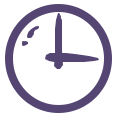
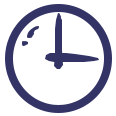
Graphic Update + Background Image

Changed region(s): [[0.0259, 0.0259, 0.9828, 0.9828], [0.2328, 0.2069, 0.3362, 0.3362], [0.181, 0.3362, 0.2586, 0.4138]]

diff --git a/index.html b/index.html
@@ -24,19 +24,17 @@
         }
 
         /* TOP MENU */
-
         .menuBar {
             display: flex;
-            background-color: rgb(205, 252, 236);
             border-radius: 10px;
             border-bottom-left-radius: 0px;
             border-bottom-right-radius: 0px;
         }
 
         .menuBar .img-menu {
-            /* width: 100px; */
+            position: relative;
             width: 50px;
-            opacity: 0.04;
+            opacity: 0.08;
         }
         .menuBar .img-menu.selected{
             opacity: 1;
@@ -50,14 +48,12 @@
             font-size: 60px;
             min-width: 136px;
             color: #333366;
-            /* color: #343486; */
             display: flex;
             justify-content: end;
-            /* background-color: red; */
         }
 
         .walkCounter.shadow {
-            opacity: 0.04;
+            opacity: 0.08;
         }
 
         /* SCREENS */
@@ -65,34 +61,41 @@
         .createScreen, .screen{
             display: flex;
             flex-wrap: wrap;
-            background-color: rgb(205, 252, 236);
             height: 300px;
             min-height: 300px;
-            /* width: 350px; */
             width: 360px;
             min-width: 360px;
         }
         
         .createScreen {
+            background-color: rgb(205, 252, 236);
             margin-right: 20px;
         }
-
+        
         .screen {
+            position: relative;
             padding: 25px;
             padding-top: 5px;
             border-radius: 10px;
             border-top-left-radius: 0px;
             border-top-right-radius: 0px;
         }
+
+        .background {
+            position: absolute;
+            top: 25px;
+            border-radius: 10px;
+        }
         
         .screenContainer {
             padding: 25px;
             padding-bottom: 45px;
-            background-color: #2c3753;
+            background-color: #1d2632;
             border-radius: 20px;
             width: 410px;
             min-width: 410px;
             position: relative;
+            overflow: hidden;
         }
 
 
@@ -106,20 +109,19 @@
         }
 
         /* PIXELS */
-
         .pixel {
             width: 8px;
             height: 8px;
-            /* margin: 1px; */
             margin: 0.5px;
             padding: 0.5px;
+        }
+        
+        .createScreen .pixel{
             background-color: rgb(162, 233, 209);
         }
 
         .pixel.clicked {
-            /* background-color: #343486; */
             background-color: #333366;
-            /* background-color: #2c215b; */
         }
 
         .pixel:not(.clicked){
@@ -129,7 +131,6 @@
 
         /* BUTTONS */
         .buttonsContainer {
-            /* background-color: red; */
             margin-top: 20px;
             width: 450px;
             height: 200px;
@@ -144,7 +145,7 @@
             position: absolute;
             background-color: #44547b;
             border: solid 1px black;
-            background-image: url("img/buttonShape.png");
+            background-image: url("img/buttonShapeDark.png");
             border-radius: 100%;
             height: 60px;
             width: 60px;
@@ -174,8 +175,8 @@
             right: 56px;
             width: 30px;
             height: 30px;
-            background-image: url("img/buttonResetShape.png");
-            border: solid 2px black;
+            background-image: url("img/buttonResetShapeDark.png");
+            border: solid 1px black;
         }
 
         #reset-button:active {
@@ -187,7 +188,7 @@
             position: absolute;
             background-color: #44547b;
             border: solid 1px black;
-            background-image: url("img/buttonShapeLong.png");
+            background-image: url("img/buttonShapeLongDark.png");
             border-radius: 100%;
             height: 30px;
             width: 64px;
@@ -277,7 +278,7 @@
             top: 250px;
             right: calc(50% - 80px);
             color: white;
-            background-color: #44547b;
+            background-color: #1d2632;
             border-radius: 15px;
             padding: 5px 50px;
             font-family: digital;
@@ -302,6 +303,7 @@
         <div class="tamagotchiBody">
             <div class="screenContainer">
                 <img src="img/logoPikachu300ppp.png" alt="logo" class="logo">
+                <img class="background" src="img/backgorundPikaSmall.png" alt="bg">
                 <div class="menuBar">
                     <img src="img/clock.png" alt="clock" id="clockMenu" class="img-menu">
                     <img src="img/gift.png" alt="gift" id="giftMenu" class="img-menu">
@@ -314,7 +316,7 @@
             <div class="buttonsContainer">
                 <button id="shake">shake</button>
                 <img src="img/cruceta-shadow.png" alt="cruceta" id="cruceta-shadow">
-                <img src="img/cruceta.png" alt="cruceta" id="cruceta">
+                <img src="img/crucetaDark.png" alt="cruceta" id="cruceta">
                 <button id="right-button" class="hiden-button">right</button>
                 <button id="left-button" class="hiden-button">left</button>
                 <button id="top-button" class="hiden-button">top</button>
